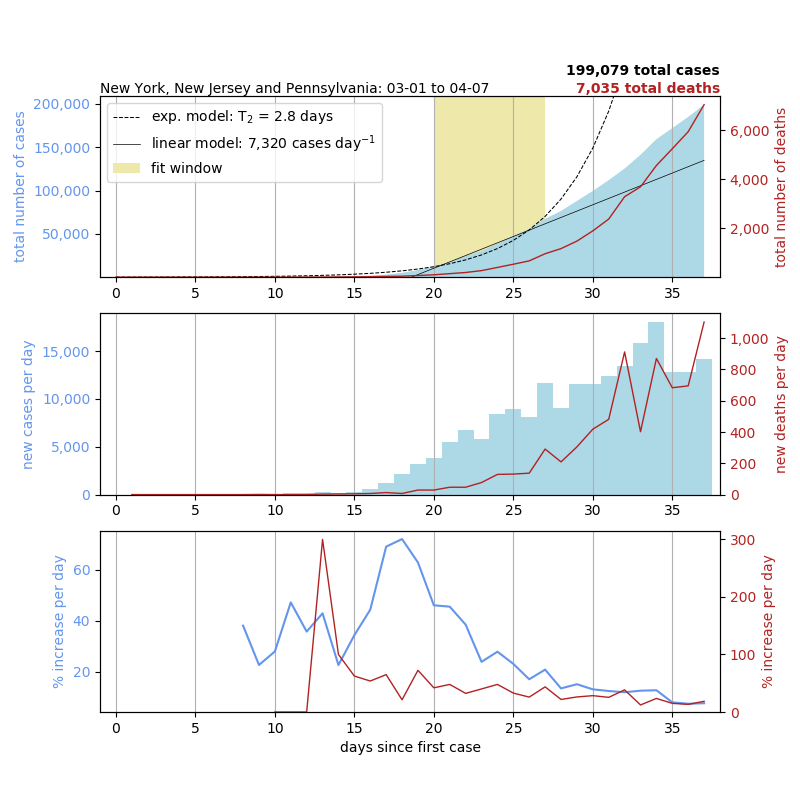
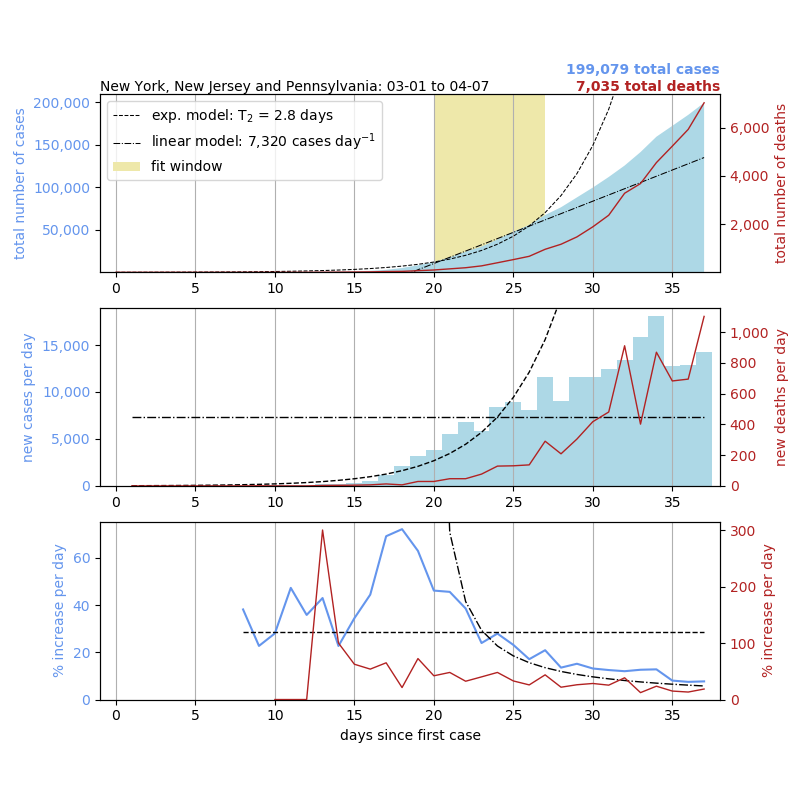
models now plotted in first-differences subplots

diff --git a/covid.py b/covid.py
@@ -55,22 +55,28 @@ def fit_covid(days,subdata,kwargs,ax):
     #make an exponential model
     y_pred=subdata['cases'][kwargs['fit'][0]]*np.exp(k[0]*(days-days[kwargs['fit'][0]]))
     
+    #bundle up the model for export
+    myfits=[[k,y_pred]]
+    
     if kwargs['fit_choice']=='both' or kwargs['fit_choice']=='exp':
         #plot the model
         ax.plot(days,
                 y_pred,'--',lw=0.75,color='k',label=r'exp. model: T$_2$ = %2.1f days' % (np.log(2)/k[0]))
  
-    #fit the data with an exponential curve, over a certain window
+    #fit the data with a line, over a certain window
     m=np.polyfit(days[kwargs['fit'][0]:kwargs['fit'][1]],
                  subdata['cases'][kwargs['fit'][0]:kwargs['fit'][1]],1)
     
-    #make an exponential model
+    #make a linear model
     y_pred1=m[1]+days*m[0]
+    
+    #bundle up the model for export
+    myfits.append([m,y_pred1])
     
     if kwargs['fit_choice']=='both' or kwargs['fit_choice']=='linear':
         #plot the model
         ax.plot(days,
-                y_pred1,'-',lw=0.5,color='k',label=r'linear model: %s cases day$^{-1}$' % ('{:,}'.format(int(m[0]))))
+                y_pred1,'-.',lw=0.75,color='k',label=r'linear model: %s cases day$^{-1}$' % ('{:,}'.format(int(m[0]))))
 
        
     #highlight which section of data was fitted
@@ -80,6 +86,8 @@ def fit_covid(days,subdata,kwargs,ax):
                     facecolor='#EEE8AA',zorder=0,edgecolor='none',label=note)
     
     ax.legend(loc=2)
+    
+    return myfits
             
 def plot_covid(subdata,choice,**kwargs):
     """
@@ -100,7 +108,7 @@ def plot_covid(subdata,choice,**kwargs):
     yscale : string, 'linear' or 'log': sets y-axis of first sub-plot to be 
     either linear or logarithmic.  Default is 'linear'
     
-    xlim : list (numeric, [a, b]): set x-axes of all three sub-plots. Default
+    xlow :  numeric, set lower x-limit on all three sub-plots. Default
     shows the full time series for your chosen slice.
     
     fit : list (integers, [c, d]): select a subset of days for curve fitting. 
@@ -175,16 +183,19 @@ def plot_covid(subdata,choice,**kwargs):
         #default is linear scale
         if kwargs is None:
             kwargs=dict()
-            kwargs['xlim']=[-1,days[-1]+1]
-        elif kwargs is not None and 'xlim' not in kwargs:
-            kwargs['xlim']=[-1,days[-1]+1]
+            kwargs['xlow']=-1
+        elif kwargs is not None and 'xlow' not in kwargs:
+            kwargs['xlow']=-1
 
+        kwargs['xlim']=[kwargs['xlow'],days[-1]+1]
         ax.set_xlim(kwargs['xlim'])
         ax.grid(axis='x')
 
+        myfits=[]
         if kwargs is not None and 'fit' in kwargs:
             #function to fit the data
-            fit_covid(days,subdata,kwargs,ax)
+            myfits=fit_covid(days,subdata,kwargs,ax)
+            
             
         #set the y-axis scale
         if kwargs is not None and 'yscale' in kwargs:
@@ -225,6 +236,22 @@ def plot_covid(subdata,choice,**kwargs):
                facecolor='#ADD8E6',
                edgecolor='none',
                zorder=0)
+        
+        ylim=ax.get_ylim()
+        ax.set_ylim([0,ylim[1]])
+        
+        #plot case increases predicted by models
+        if len(myfits)>0 and kwargs['fit_choice']=='exp':
+            ax.plot(days[1:],
+                    np.diff(myfits[0][1])/np.diff(days),'--',lw=1,color='k')
+        elif len(myfits)>0 and kwargs['fit_choice']=='linear':
+            ax.plot(days[1:],
+                    np.diff(myfits[1][1])/np.diff(days),'-.',lw=1,color='k')
+        elif len(myfits)>0 and kwargs['fit_choice']=='both':
+            ax.plot(days[1:],
+                    np.diff(myfits[0][1])/np.diff(days),'--',lw=1,color='k')
+            ax.plot(days[1:],
+                    np.diff(myfits[1][1])/np.diff(days),'-.',lw=1,color='k')
 
         #stylize plot
         ax.set_ylabel('new cases per day',color='#6495ED')
@@ -259,10 +286,31 @@ def plot_covid(subdata,choice,**kwargs):
         days=days[idx]
         subdata=subdata[idx]
         
+        if len(myfits)>0:
+            myfits[0][1]=myfits[0][1][idx]
+            myfits[1][1]=myfits[1][1][idx]
+            myfits[1][1][myfits[1][1]<0]=np.nan
+            
         #plot percent case increase per day vs. day number
         ax.plot(days[1:],
                 (np.diff(subdata['cases'])/np.diff(days))/subdata['cases'][0:-1]*100,'-',color='#6495ED')
             
+        ylim=ax.get_ylim()
+        ax.set_ylim([0,ylim[1]])
+        
+        #plot percent case increases predicted by models
+        if len(myfits)>0 and kwargs['fit_choice']=='exp':
+            ax.plot(days[1:],
+                    (np.diff(myfits[0][1])/np.diff(days))/myfits[0][1][0:-1]*100,'--',lw=1,color='k')
+        elif len(myfits)>0 and kwargs['fit_choice']=='linear':
+            ax.plot(days[1:],
+                    (np.diff(myfits[1][1])/np.diff(days))/myfits[1][1][0:-1]*100,'-.',lw=1,color='k')
+        elif len(myfits)>0 and kwargs['fit_choice']=='both':
+            ax.plot(days[1:],
+                    (np.diff(myfits[0][1])/np.diff(days))/myfits[0][1][0:-1]*100,'--',lw=1,color='k')
+            ax.plot(days[1:],
+                    (np.diff(myfits[1][1])/np.diff(days))/myfits[1][1][0:-1]*100,'-.',lw=1,color='k')
+
         ax.set_ylabel('% increase per day',color='#6495ED')
         ax.tick_params(axis='y', labelcolor='#6495ED')
         
@@ -285,7 +333,7 @@ def plot_covid(subdata,choice,**kwargs):
         ax.set_xlabel('days since first case')
         ax.set_xlim(kwargs['xlim'])
         ax.grid(axis='x')
-
+        
     #case of no data found
     else:
         ax=fig.add_subplot(111)
@@ -328,7 +376,7 @@ subdata,choice_text=slice_data(states,choice)
 
 plot_covid(subdata,choice_text,
            fit=[60,70],
-           xlim=[40,77],
+           xlow=40,
            fit_choice='both',
            yscale='linear')
 
@@ -343,7 +391,7 @@ subdata=subdata.reset_index()
 
 plot_covid(subdata,county_choice,
            fit=[25,35],
-           xlim=[10,37],
+           xlow=10,
            fit_choice='linear',
            yscale='linear')
 
